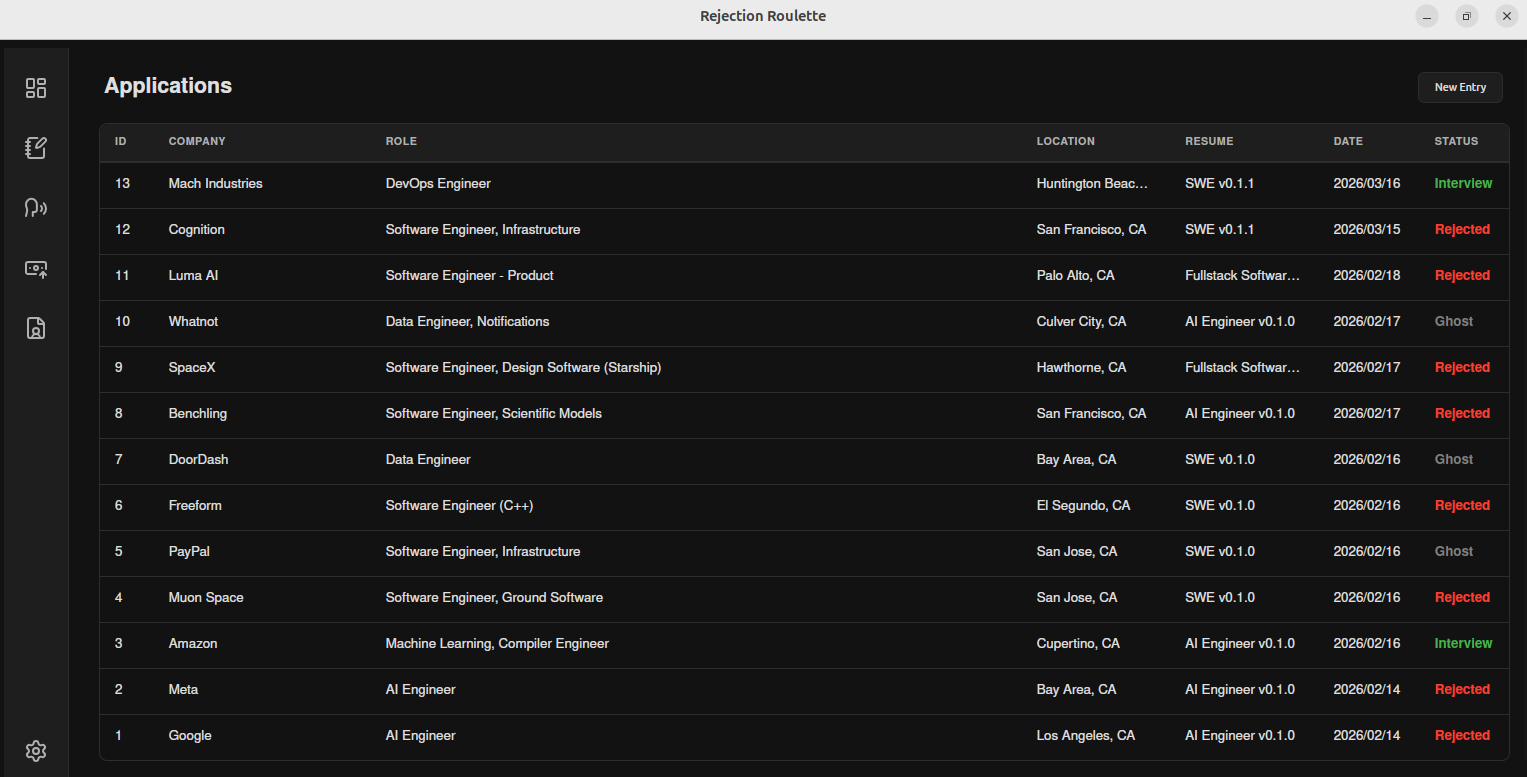
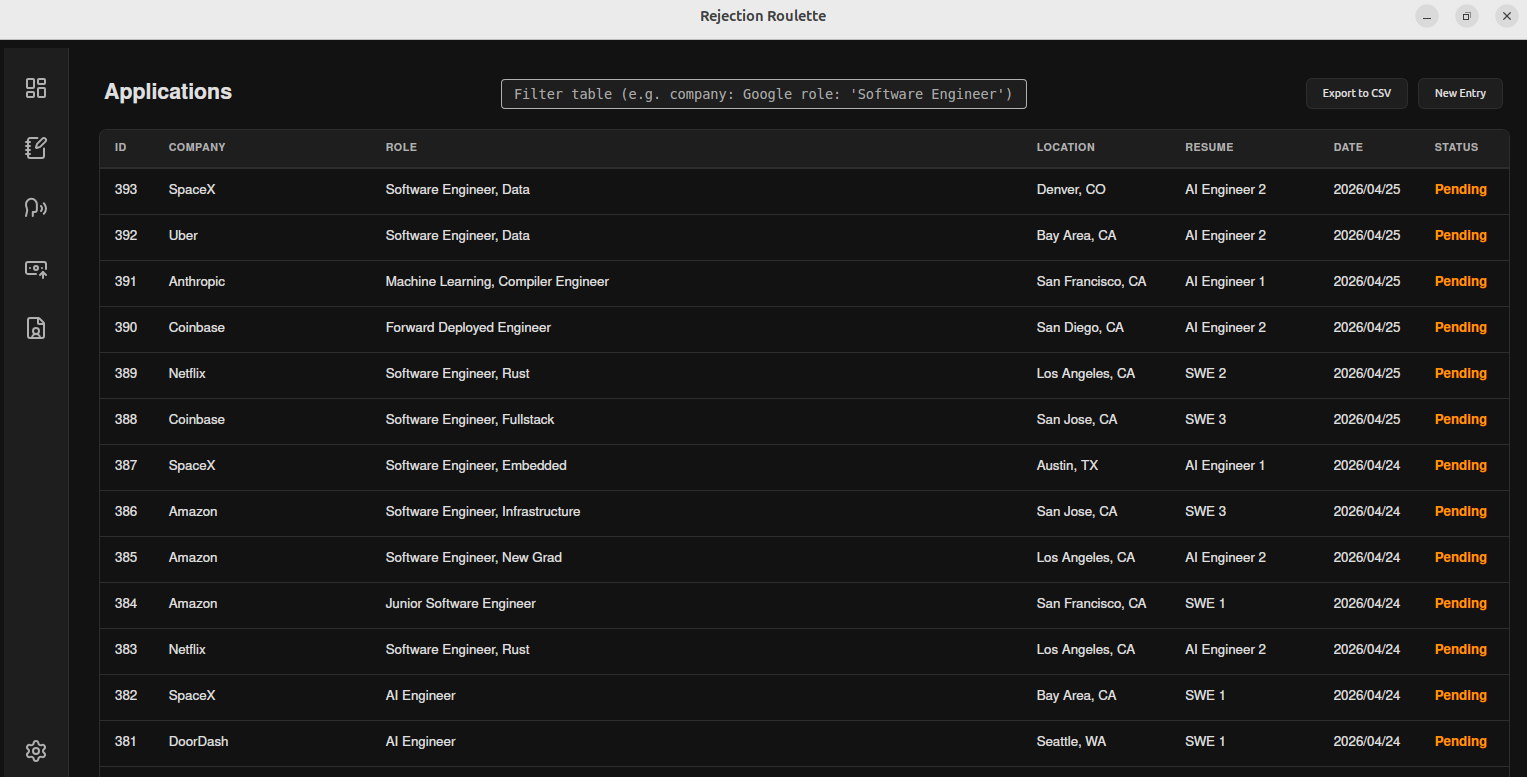
update screenshots

diff --git a/README.md b/README.md
@@ -15,8 +15,17 @@ Built with Rust and Dioxus, it runs on Linux, Windows, and macOS.
 ![Applications Table](screenshots/applications_table.png)
 *Applications table showing job applications with company, role, status, and submission dates*
 
+![Applications Table Filter 1](screenshots/applications_table_filter1.png)
+*Filter job applications by company (Google)*
+
+![Applications Table Filter 2](screenshots/applications_table_filter2.png)
+*Filter job applications by resume and status (Interview)*
+
 ![Interviews](screenshots/interviews.png)
 *Interview tracking view with details and notes for each application*
+
+![Interviews Filter](screenshots/interviews_filter.png)
+*Filter interviews by type*
 
 ![Offers](screenshots/offers.png)
 *Offers management showing salary, bonus, equity details, and acceptance status*
@@ -29,6 +38,15 @@ Built with Rust and Dioxus, it runs on Linux, Windows, and macOS.
 
 ![Add Interview](screenshots/add_interview.png)
 *Add interview details form*
+
+![Sankey](screenshots/sankey.png)
+*Sankey diagram showing application flow*
+
+![Calendar](screenshots/calendar.png)
+*Calendar heatmap showing application submission by day*
+
+![Resume Pie](screenshots/resume_pie.png)
+*Pie chart showing interview distribution by resume*
 
 ### Themes
 The app comes with multiple themes. Check out some of them below.
